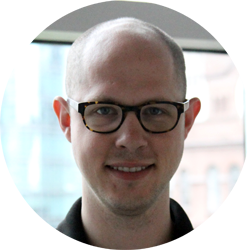
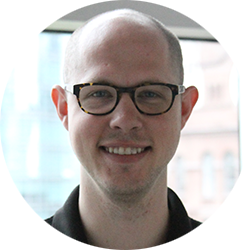
HACK-565 #comment alex image change + mike email change

diff --git a/_includes/team-page/mike-contact.html b/_includes/team-page/mike-contact.html
@@ -1,5 +1,5 @@
 <p>
-	<a href="mailto:michael@thehackerati.com">mike@thehackerati.com</a>
+	<a href="mailto:michael@thehackerati.com">michael@thehackerati.com</a>
 </p>
 <div class="team-social-media">
 	<a href="https://www.linkedin.com/pub/michael-ketigian/16/9b9/823"target="blank">
